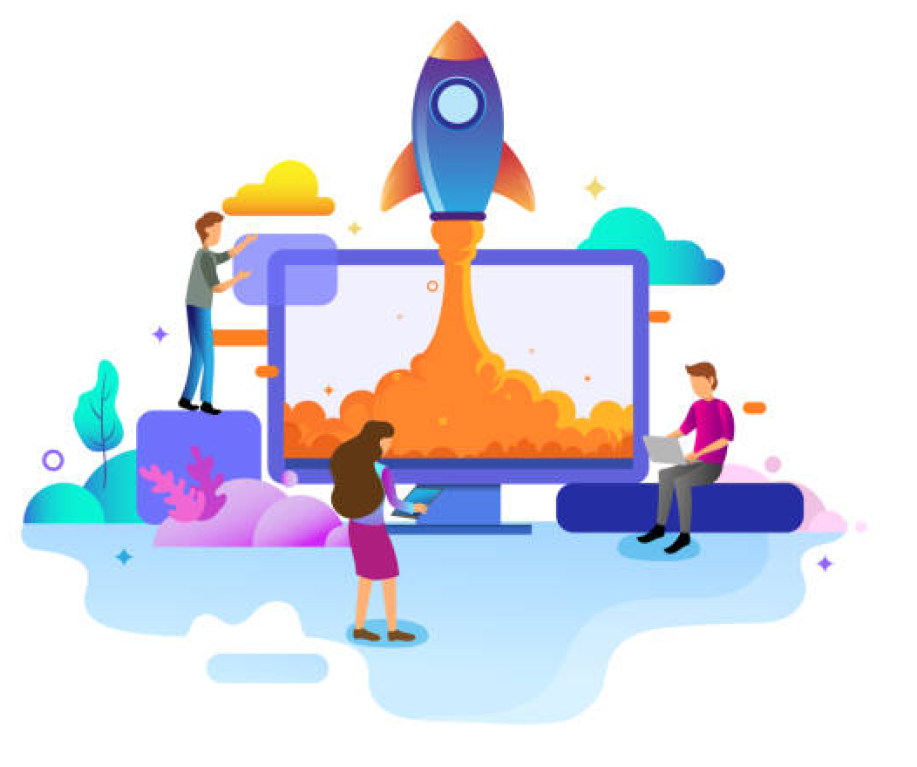
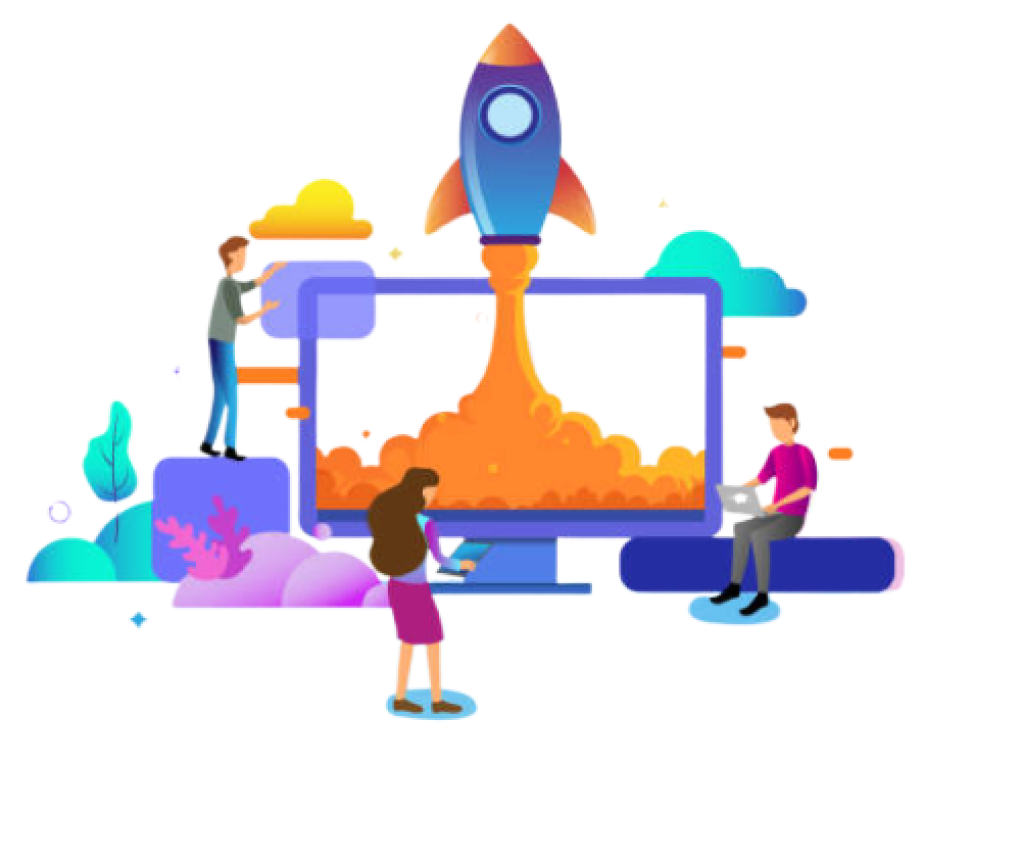
changed colours and images

diff --git a/src/App.css b/src/App.css
@@ -7,12 +7,14 @@ body{
 h1 {
   font-family: 'Nunito', sans-serif;
   font-weight: 1000;
+  color: white;
 }
 
 h2 {
   font-family: 'Nunito', sans-serif;
   font-weight: 400;
   font-size: 2.2em;
+  color: white;
 }
 
 .button1 {
@@ -42,6 +44,7 @@ p {
   width: 50vw;
   height: auto;
   padding-bottom: 50px;
+  
 }
 .home-intro {
   text-align: left;
@@ -49,6 +52,7 @@ p {
   padding-left: 15%;
   padding-right: 10%;
   padding-bottom: 50px;
+  background-color: #292930;
 }
 
 .section-2 {
@@ -56,7 +60,7 @@ p {
   height: auto;
   top: 6%;
   left: 6%;
-  
+  background-color: #292930;
 }
 
 .text-2 {
@@ -65,6 +69,7 @@ p {
   padding-right: 10%;
   top: 134%;
   text-align: left;
+
 }
 
 .home-2 {
@@ -77,6 +82,7 @@ p {
   padding-top: 5%;
   padding-bottom: 5%;
   position: relative;
+  background-color: #292930;
 }
 
 .divider {

diff --git a/src/pages/Home.js b/src/pages/Home.js
@@ -44,7 +44,7 @@ function Home() {
           <Col>
           <div className="text-2">
             <h1 style={{ color: "white" }}>
-              Find The <span style={{ color: "#FFAE71" }}>Right Path</span> With
+              Find The <span style={{ color: "#645ED9" }}>Right Path</span> With
               Us
             </h1>
             <div className="header-container" style={{ position: "relative" }}>
